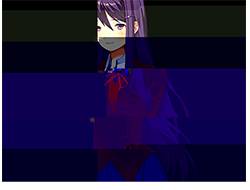
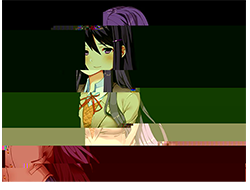
Things were done

diff --git a/src/main/java/yurimod/cards/ReactiveMadness.java b/src/main/java/yurimod/cards/ReactiveMadness.java
@@ -1,0 +1,94 @@
+package yurimod.cards;
+
+import com.evacipated.cardcrawl.mod.stslib.fields.cards.AbstractCard.FleetingField;
+import com.megacrit.cardcrawl.actions.common.ApplyPowerAction;
+import com.megacrit.cardcrawl.actions.common.DrawCardAction;
+import com.megacrit.cardcrawl.actions.common.ReducePowerAction;
+import com.megacrit.cardcrawl.cards.AbstractCard;
+import com.megacrit.cardcrawl.characters.AbstractPlayer;
+import com.megacrit.cardcrawl.core.CardCrawlGame;
+import com.megacrit.cardcrawl.dungeons.AbstractDungeon;
+import com.megacrit.cardcrawl.localization.CardStrings;
+import com.megacrit.cardcrawl.monsters.AbstractMonster;
+
+import basemod.abstracts.CustomCard;
+
+import com.megacrit.cardcrawl.powers.WeakPower;
+import yurimod.actions.CorruptAction;
+import yurimod.powers.InsanityPower;
+import yurimod.yuriMod;
+import yurimod.patches.AbstractCardEnum;
+
+public class ReactiveMadness
+extends CustomCard {
+	
+/*
+ * Wiki-page: https://github.com/daviscook477/BaseMod/wiki/Custom-Cards
+ * 
+ * Defend
+ * Gain 5 (8) block.
+ */
+	
+	
+// TEXT DECLARATION 
+	
+	public static final String ID = yurimod.yuriMod.makeID("ReactiveMadness");
+	private static final CardStrings cardStrings = CardCrawlGame.languagePack.getCardStrings(ID);
+	public static final String IMG = yuriMod.makePath(yuriMod.yuri_REACT);
+	
+	public static final	String NAME = cardStrings.NAME;
+	public static final String DESCRIPTION = cardStrings.DESCRIPTION;
+	public static final String UPGRADE_DESCRIPTION = cardStrings.UPGRADE_DESCRIPTION;
+
+// /TEXT DECLARATION/
+	
+
+// STAT DECLARATION 	
+	
+	private static final CardRarity RARITY = CardRarity.UNCOMMON;
+	private static final CardTarget TARGET = CardTarget.ENEMY;
+	private static final CardType TYPE = CardType.SKILL;
+	public static final CardColor COLOR = AbstractCardEnum.YURI_PURPLE;
+
+	private static final int COST = 0;
+	private static final int MAGIC = 2;
+	private static final int UPGRADE_MAGIC = 1;
+
+	
+// /STAT DECLARATION/
+	
+	public ReactiveMadness() {
+		super(ID,NAME,IMG,COST,DESCRIPTION,TYPE,COLOR,RARITY,TARGET);
+		this.baseMagicNumber = this.magicNumber = MAGIC;
+	}
+	
+	// Actions the card should do.
+	@Override
+	public void use(AbstractPlayer p, AbstractMonster m) {
+		if (m == null || m.intent != AbstractMonster.Intent.ATTACK && m.intent != AbstractMonster.Intent.ATTACK_BUFF && m.intent != AbstractMonster.Intent.ATTACK_DEBUFF && m.intent != AbstractMonster.Intent.ATTACK_DEFEND) {
+			AbstractDungeon.actionManager.addToBottom(new ReducePowerAction(p, p, "InsanityPower", this.magicNumber));
+		} else {
+			AbstractDungeon.actionManager.addToBottom(new ApplyPowerAction(p, p, new InsanityPower(p, p, this.magicNumber), this.magicNumber));
+		}
+		if (AbstractDungeon.player.hasRelic("yuri:BloodyKnife") && !this.purgeOnUse) {
+			AbstractDungeon.actionManager.addToBottom(new CorruptAction(this, new ReactiveMadnessCorrupt()));
+			FleetingField.fleeting.set(this, true);
+		}
+	}
+	
+	// Which card to return when making a copy of this card.
+    @Override
+    public AbstractCard makeCopy() {
+        return new ReactiveMadness();
+    }
+    
+    //Upgraded stats.
+    @Override
+    public void upgrade() {
+        if (!this.upgraded) {
+            this.upgradeName();
+            this.upgradeMagicNumber(UPGRADE_MAGIC);
+            this.initializeDescription();
+        }
+    }
+}

diff --git a/src/main/java/yurimod/cards/ReactiveMadnessCorrupt.java b/src/main/java/yurimod/cards/ReactiveMadnessCorrupt.java
@@ -1,0 +1,90 @@
+package yurimod.cards;
+
+import com.evacipated.cardcrawl.mod.stslib.fields.cards.AbstractCard.FleetingField;
+import com.megacrit.cardcrawl.actions.common.ApplyPowerAction;
+import com.megacrit.cardcrawl.actions.common.DrawCardAction;
+import com.megacrit.cardcrawl.actions.common.ReducePowerAction;
+import com.megacrit.cardcrawl.cards.AbstractCard;
+import com.megacrit.cardcrawl.characters.AbstractPlayer;
+import com.megacrit.cardcrawl.core.CardCrawlGame;
+import com.megacrit.cardcrawl.dungeons.AbstractDungeon;
+import com.megacrit.cardcrawl.localization.CardStrings;
+import com.megacrit.cardcrawl.monsters.AbstractMonster;
+
+import basemod.abstracts.CustomCard;
+
+import com.megacrit.cardcrawl.powers.StrengthPower;
+import com.megacrit.cardcrawl.powers.WeakPower;
+import yurimod.actions.CorruptAction;
+import yurimod.powers.InsanityPower;
+import yurimod.yuriMod;
+import yurimod.patches.AbstractCardEnum;
+
+public class ReactiveMadnessCorrupt
+extends CustomCard {
+	
+/*
+ * Wiki-page: https://github.com/daviscook477/BaseMod/wiki/Custom-Cards
+ * 
+ * Defend
+ * Gain 5 (8) block.
+ */
+	
+	
+// TEXT DECLARATION 
+	
+	public static final String ID = yurimod.yuriMod.makeID("ReactiveMadnessCorrupt");
+	private static final CardStrings cardStrings = CardCrawlGame.languagePack.getCardStrings(ID);
+	public static final String IMG = yuriMod.makePath(yuriMod.yuri_REACT_CORRUPT);
+	
+	public static final	String NAME = cardStrings.NAME;
+	public static final String DESCRIPTION = cardStrings.DESCRIPTION;
+	public static final String UPGRADE_DESCRIPTION = cardStrings.UPGRADE_DESCRIPTION;
+
+// /TEXT DECLARATION/
+	
+
+// STAT DECLARATION 	
+	
+	private static final CardRarity RARITY = CardRarity.SPECIAL;
+	private static final CardTarget TARGET = CardTarget.ENEMY;
+	private static final CardType TYPE = CardType.SKILL;
+	public static final CardColor COLOR = AbstractCardEnum.YURI_RED;
+
+	private static final int COST = 0;
+
+	
+// /STAT DECLARATION/
+	
+	public ReactiveMadnessCorrupt() {
+		super(ID,NAME,IMG,COST,DESCRIPTION,TYPE,COLOR,RARITY,TARGET);
+	}
+	
+	// Actions the card should do.
+	@Override
+	public void use(AbstractPlayer p, AbstractMonster m) {
+		if (m == null || m.intent != AbstractMonster.Intent.ATTACK && m.intent != AbstractMonster.Intent.ATTACK_BUFF && m.intent != AbstractMonster.Intent.ATTACK_DEBUFF && m.intent != AbstractMonster.Intent.ATTACK_DEFEND) {
+			if (this.upgraded){
+				AbstractDungeon.actionManager.addToBottom(new ApplyPowerAction(p, p, new StrengthPower(p, 2), 2));
+			}
+		} else {
+			AbstractDungeon.actionManager.addToBottom(new ApplyPowerAction(p, p, new InsanityPower(p, p, 3), 3));
+		}
+	}
+	
+	// Which card to return when making a copy of this card.
+    @Override
+    public AbstractCard makeCopy() {
+        return new ReactiveMadnessCorrupt();
+    }
+    
+    //Upgraded stats.
+    @Override
+    public void upgrade() {
+        if (!this.upgraded) {
+            this.upgradeName();
+            this.rawDescription = UPGRADE_DESCRIPTION;
+            this.initializeDescription();
+        }
+    }
+}

diff --git a/src/main/java/yurimod/yuriMod.java b/src/main/java/yurimod/yuriMod.java
@@ -165,6 +165,8 @@ public class yuriMod implements EditCardsSubscriber, EditRelicsSubscriber, EditS
     public static final String yuri_HOLD_BACK = "cards/HoldBack.png";
     public static final String yuri_HOLD_BACK_CORRUPT = "cards/HoldBackCorrupt.png";
     public static final String yuri_MAGNET = "cards/MagneticKnives.png";
+    public static final String yuri_REACT = "cards/ReactiveMadness.png";
+    public static final String yuri_REACT_CORRUPT = "cards/ReactiveMadnessCorrupt.png";
 
 
     // Power images
@@ -445,6 +447,8 @@ public class yuriMod implements EditCardsSubscriber, EditRelicsSubscriber, EditS
 		BaseMod.addCard(new HoldBack());
 		BaseMod.addCard(new HoldBackCorrupt());
 		BaseMod.addCard(new MagneticKnives());
+		BaseMod.addCard(new ReactiveMadness());
+		BaseMod.addCard(new ReactiveMadnessCorrupt());
 		if (!SafeMode){
             BaseMod.addCard(new Suicide());
             BaseMod.addCard(new SelfHarm());
@@ -522,6 +526,7 @@ public class yuriMod implements EditCardsSubscriber, EditRelicsSubscriber, EditS
         UnlockTracker.unlockCard(RemoveSafetyChecks.ID);
         UnlockTracker.unlockCard(HoldBack.ID);
         UnlockTracker.unlockCard(MagneticKnives.ID);
+        UnlockTracker.unlockCard(ReactiveMadness.ID);
 
 		logger.info("Cards - added!");
 	}

diff --git a/src/main/java/yurimod/cards/ChibiInvasionCorrupt.java b/src/main/java/yurimod/cards/ChibiInvasionCorrupt.java
@@ -77,7 +77,7 @@ extends CustomCard {
 		for (final AbstractMonster mo : AbstractDungeon.getCurrRoom().monsters.monsters) {
 			AbstractDungeon.actionManager.addToBottom(new ApplyPowerAction(mo, p, new GlitchedPower(mo, p, this.magicNumber), this.magicNumber));
 		}
-		AbstractDungeon.actionManager.addToBottom(new MakeTempCardInDrawPileAction(new Glitch(), 1, true, true));
+		AbstractDungeon.actionManager.addToBottom(new MakeTempCardInDrawPileAction(new Glitch(), 1, false, true));
 	}
 	
 	// Which card to return when making a copy of this card.

diff --git a/src/main/java/yurimod/cards/JumpScare.java b/src/main/java/yurimod/cards/JumpScare.java
@@ -61,7 +61,7 @@ extends CustomCard {
 		if (AbstractDungeon.getCurrRoom().monsters.monsters.size() > 1 && !m.id.equals("hubris:NecromanticTotem") && !m.id.equals("AwakenedOne")) {
 			int nomin = 0;
 			for (final AbstractMonster mo : AbstractDungeon.getCurrRoom().monsters.monsters) {
-				if (!mo.hasPower("Minion") && !mo.isEscaping) {
+				if (!mo.hasPower("Minion") && !mo.isEscaping && !mo.isDead) {
 				nomin++;
 				}
 			}

diff --git a/src/main/java/yurimod/cards/GhostForm.java b/src/main/java/yurimod/cards/GhostForm.java
@@ -64,7 +64,7 @@ extends CustomCard {
 	public void use(AbstractPlayer p, AbstractMonster m) {
 		AbstractDungeon.actionManager
 				.addToBottom(new ApplyPowerAction(p, p, new IntangiblePlayerPower(p, this.magicNumber), this.magicNumber));
-		AbstractDungeon.player.decreaseMaxHealth(3);
+		AbstractDungeon.player.decreaseMaxHealth(2);
 	}
 
 	// Which card to return when making a copy of this card.

diff --git a/src/main/java/yurimod/cards/CalmingAuraCorrupt.java b/src/main/java/yurimod/cards/CalmingAuraCorrupt.java
@@ -51,7 +51,7 @@ extends CustomCard {
 
 	private static final int COST = 1;	
 	private static final int BLOCK = 6;
-	private static final int UPGRADE_PLUS_BLOCK = 3;
+	private static final int UPGRADE_PLUS_BLOCK = 2;
 	private static final int MAGIC = 1;
 	private static final int UPGRADE_MAGIC = 1;
 
